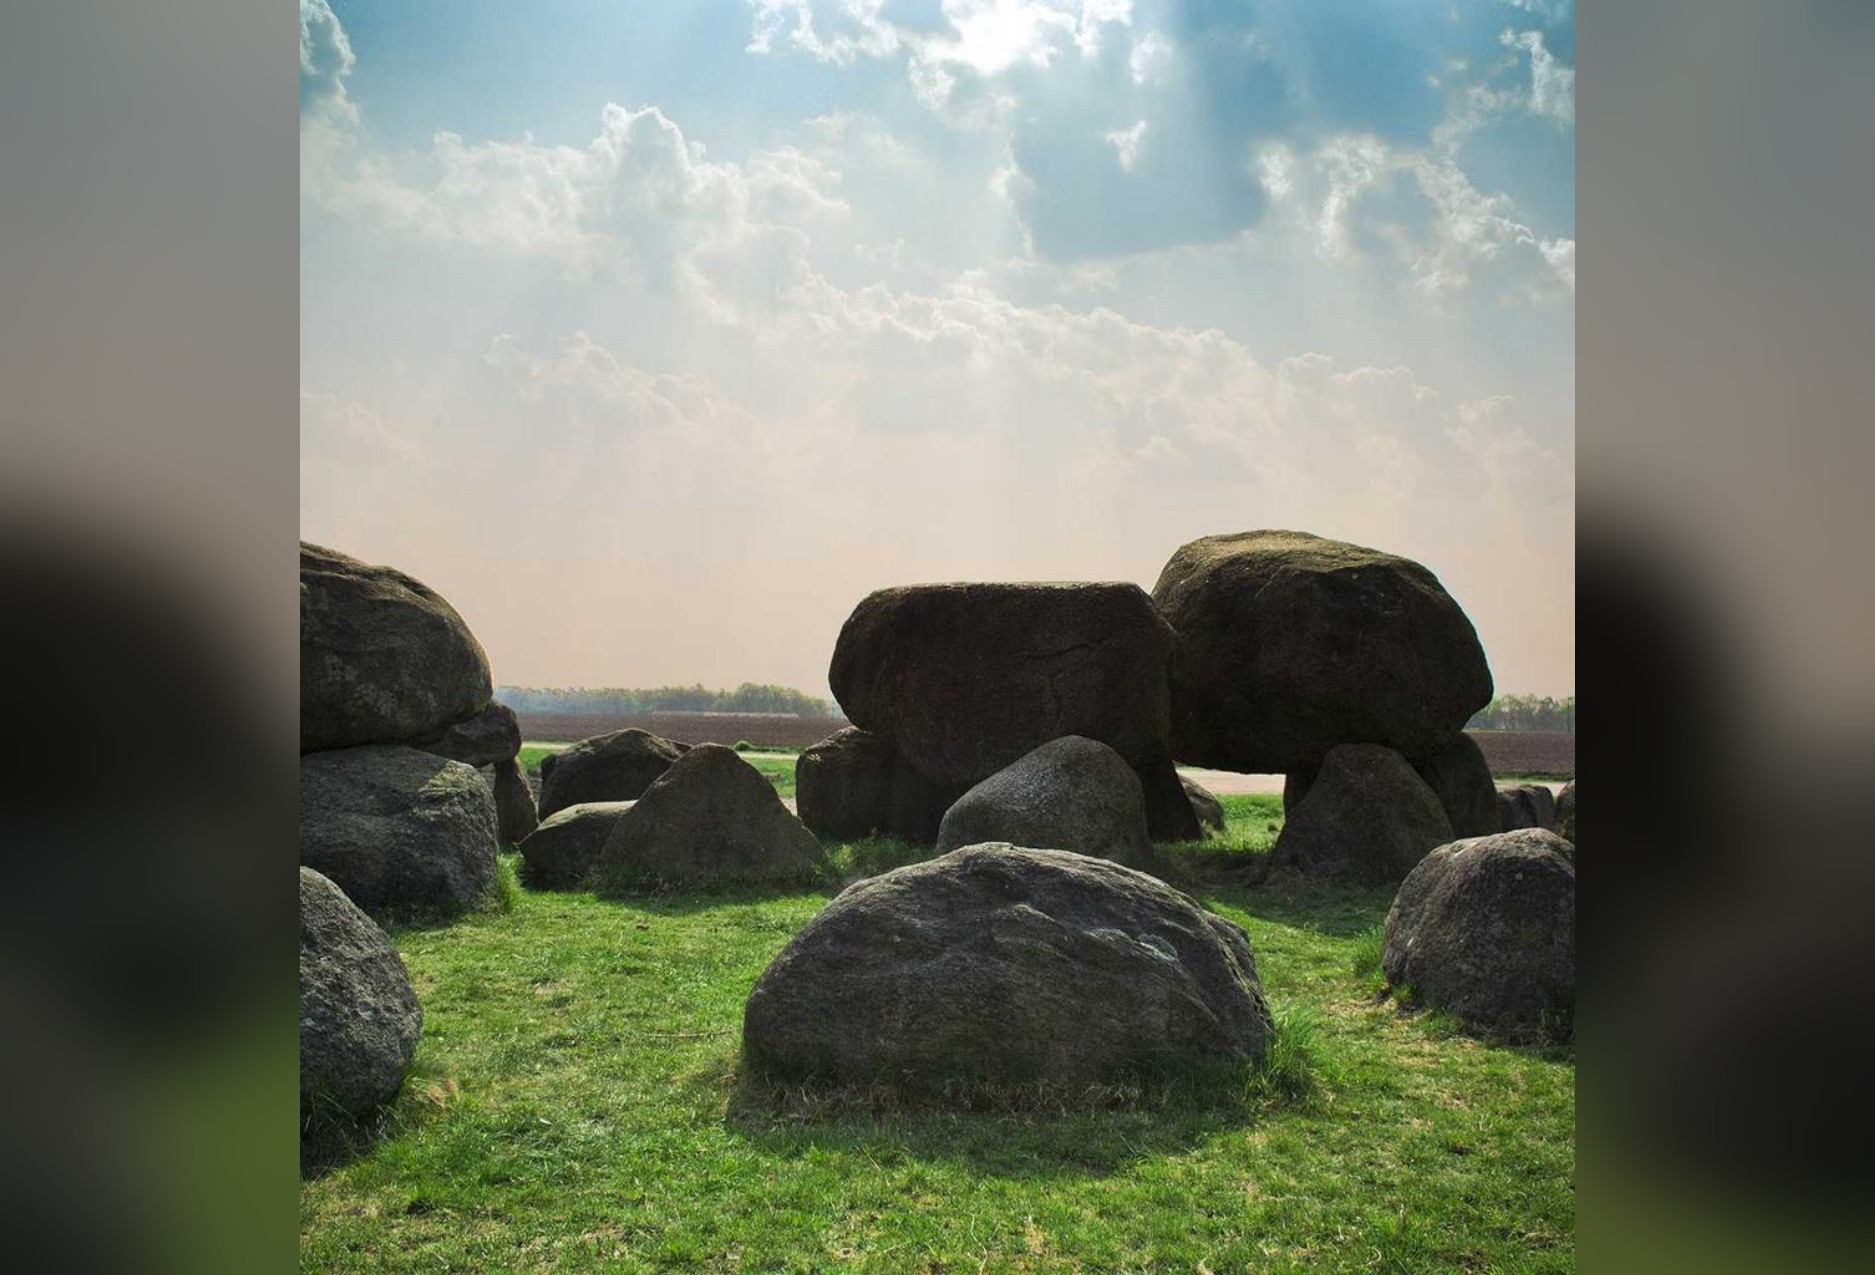
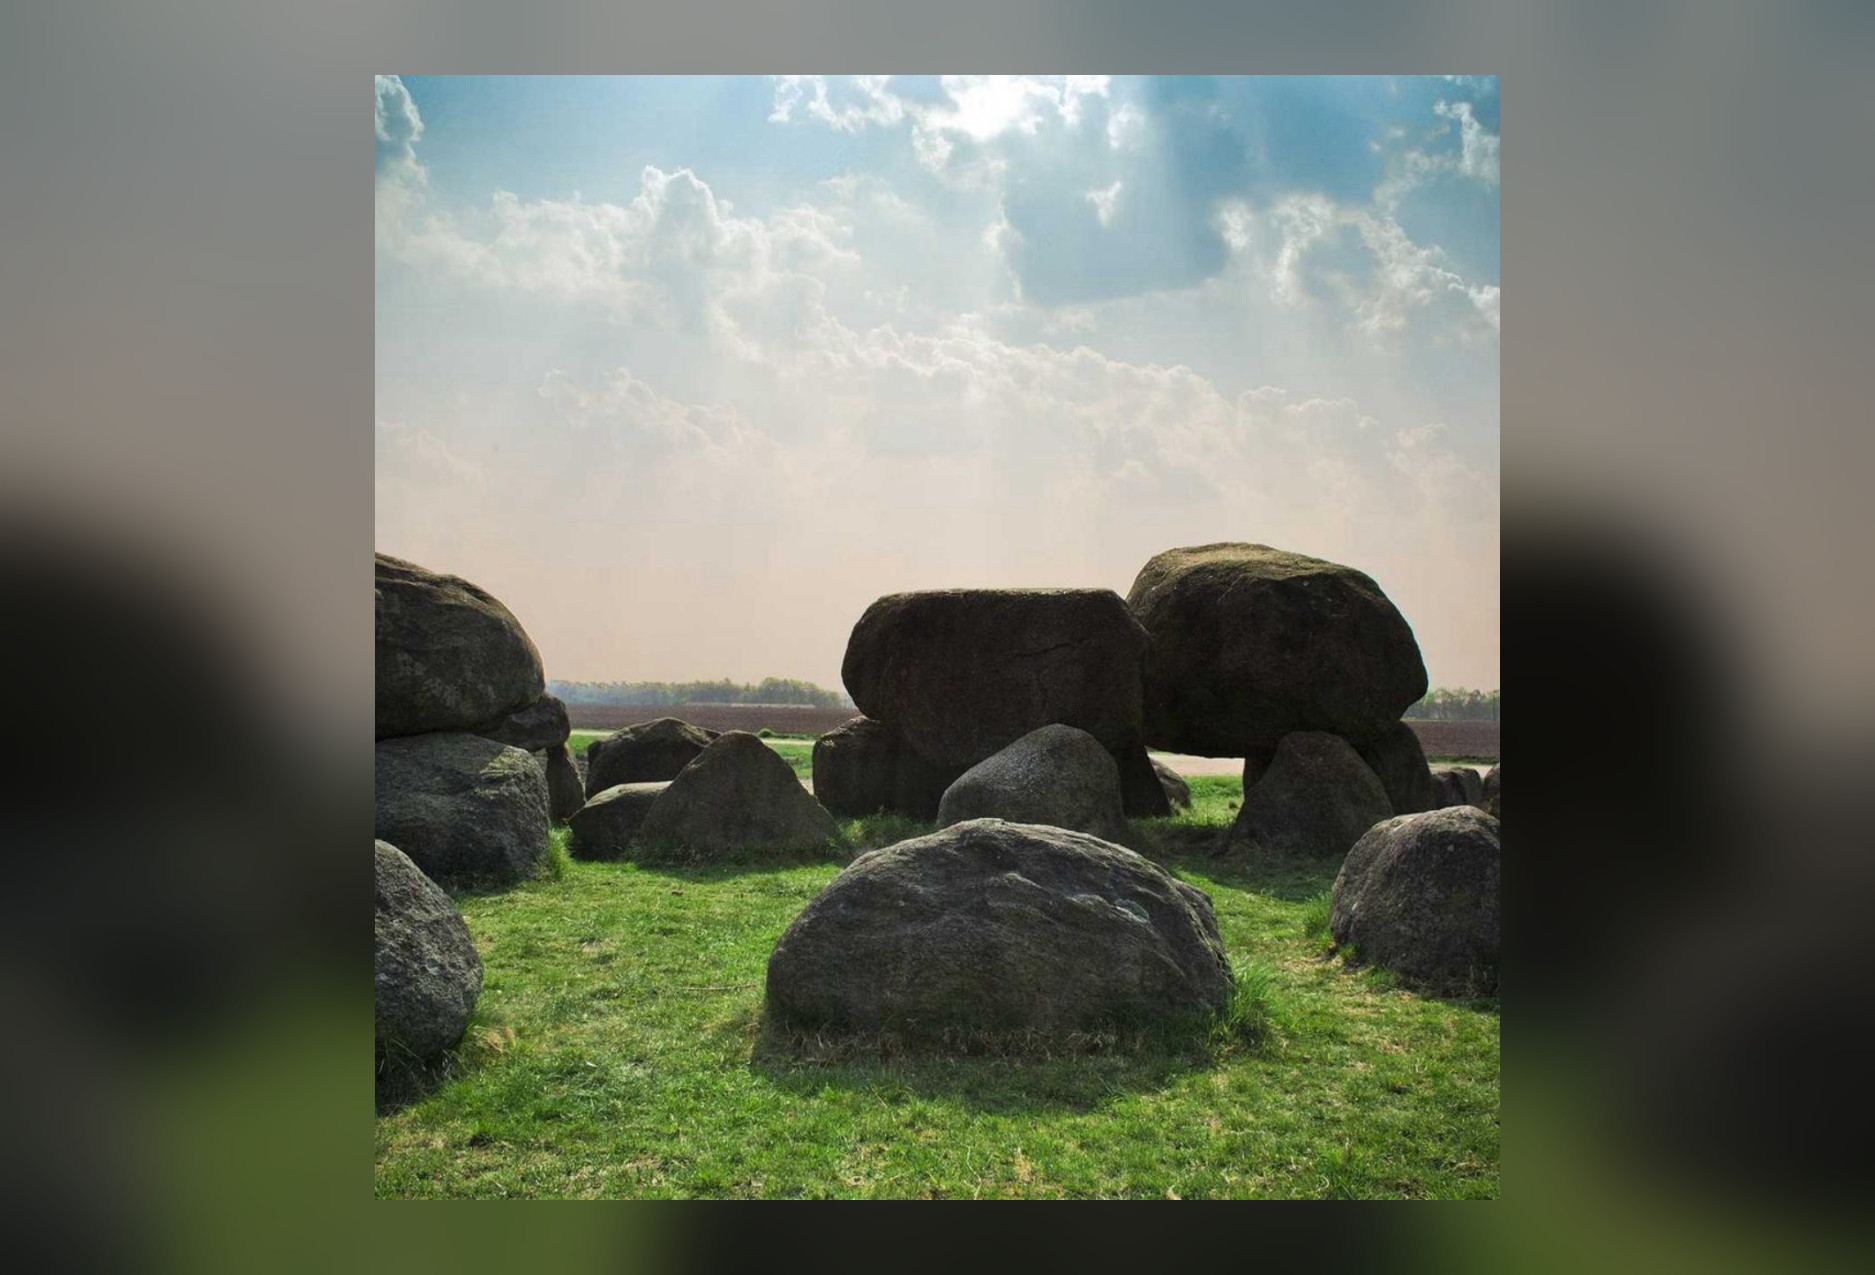
docs: portfolio pass — sync comments with verified reality, scrub fixtures
- mailstream/client, artworkStore, statusLines, render: comments claimed
  things disproven since (data-URI artwork, "still unverified" response
  shape, proof-approval gate, expiring bucket, unconfirmed bleed specs) —
  all now state what the live probes and the first print run verified.
- Test fixtures: anonymize captured Slack ids and workspace-specific quote
  text; neutral names only.
- README: CI badge; the card-grammar and hierarchy notes now describe the
  bold-echo convention (prompt on the card, speaker attribution).
- docs/cards/photo-front.jpg re-rendered through the trim-safe blur-fill so
  the showcase matches what ships.

Claude-Session: https://claude.ai/code/session_01CEdn7z3kDBqwiirugioocR

diff --git a/test/normalize.test.ts b/test/normalize.test.ts
@@ -16,7 +16,7 @@ const fakeClient = {
 const BOT_IMAGE_MESSAGE: SlackMessage = {
   ts: '1783992999.844899',
   text: '✨ Generated image for: "cat in space"',
-  bot_id: 'B0A69CHT46T',
+  bot_id: 'B0IMAGEBOT9',
   blocks: [
     {
       type: 'image',
@@ -28,7 +28,7 @@ const BOT_IMAGE_MESSAGE: SlackMessage = {
     },
     {
       type: 'context',
-      elements: [{ type: 'mrkdwn', text: '<@U151PTHK9> | *cat in space* | GPT-5 Image Mini' }],
+      elements: [{ type: 'mrkdwn', text: '<@U0REQUESTR> | *cat in space* | GPT-5 Image Mini' }],
     },
   ],
 };
@@ -72,7 +72,7 @@ describe('normalizeMessage with a bot image post', () => {
           BOT_IMAGE_MESSAGE.blocks![0],
           {
             type: 'context',
-            elements: [{ type: 'mrkdwn', text: '<@U151PTHK9> | GPT-5 Image Mini' }],
+            elements: [{ type: 'mrkdwn', text: '<@U0REQUESTR> | GPT-5 Image Mini' }],
           },
         ],
       },
@@ -92,7 +92,7 @@ describe('normalizeMessage with a bot image post', () => {
           BOT_IMAGE_MESSAGE.blocks![0],
           {
             type: 'context',
-            elements: [{ type: 'mrkdwn', text: '<@U151PTHK9> | GPT-5 Image Mini' }],
+            elements: [{ type: 'mrkdwn', text: '<@U0REQUESTR> | GPT-5 Image Mini' }],
           },
         ],
       },
@@ -106,7 +106,7 @@ describe('normalizeMessage with a bot image post', () => {
       channelId: 'C1',
       message: {
         ts: '1.3',
-        user: 'U151PTHK9',
+        user: 'U0REQUESTR',
         text: 'my own words',
         blocks: [
           {
@@ -159,7 +159,7 @@ describe('normalizeMessage with a bot image post', () => {
       channelId: 'C1',
       message: BOT_IMAGE_MESSAGE,
     });
-    expect(n.onBehalfOf?.id).toBe('U151PTHK9');
+    expect(n.onBehalfOf?.id).toBe('U0REQUESTR');
     expect(n.onBehalfOf?.name).toBe('mike');
   });
 
@@ -176,14 +176,14 @@ describe('normalizeMessage with a bot image post', () => {
             elements: [
               {
                 type: 'mrkdwn',
-                text: '<@U151PTHK9> | *draw <@U2> riding a dragon* | GPT-5 Image Mini',
+                text: '<@U0REQUESTR> | *draw <@U2> riding a dragon* | GPT-5 Image Mini',
               },
             ],
           },
         ],
       },
     });
-    expect(n.onBehalfOf?.id).toBe('U151PTHK9');
+    expect(n.onBehalfOf?.id).toBe('U0REQUESTR');
     // The mention inside the echo renders as a mention, not a raw id.
     expect(n.plainText).toBe('draw @mike riding a dragon');
   });
@@ -205,14 +205,14 @@ describe('normalizeMessage with a bot image post', () => {
             elements: [
               {
                 type: 'mrkdwn',
-                text: "🤖 <@USUMMONER> summoned Clank on <@UAUTHOR>'s message: *fuck this noise, you were banned from <#C06H16G7BA4|business>…* · <https://x.slack.com/p9|source> | GPT-5 Image Mini | 43s | ~$0.09",
+                text: "🤖 <@USUMMONER> summoned Clank on <@UAUTHOR>'s message: *this fort is load-bearing now, complaints go to <#C0GENERAL01|general>…* · <https://x.slack.com/p9|source> | GPT-5 Image Mini | 43s | ~$0.09",
               },
             ],
           },
         ],
       },
     });
-    expect(n.plainText).toBe('fuck this noise, you were banned from #business…');
+    expect(n.plainText).toBe('this fort is load-bearing now, complaints go to #general…');
     expect(n.plainText).not.toContain('source');
     expect(n.onBehalfOf?.id).toBe('UAUTHOR');
   });

diff --git a/src/mailstream/client.ts b/src/mailstream/client.ts
@@ -58,22 +58,22 @@ export class StubMailstreamClient implements MailstreamClient {
 }
 
 /**
- * VERIFIED CONTRACT (probed live 2026-07-13 against a real account):
+ * VERIFIED CONTRACT (probed live 2026-07-13; confirmed with a real
+ * production order 2026-07-16):
  *   - Base URL https://my.mailstream.app/api/v1, `Authorization: Bearer <jwt>`
  *   - POST /postcards body: name, size (4x6|6x9|6x11), mail_type (first_class),
  *     to_address{first_name,last_name,address_line1[,address_line2],address_city,
  *     address_state(2-letter),address_zip(5-10)}, front_artwork + back_artwork —
- *     both must be HTML ("Must be valid HTML"), so rendered images ship inside
- *     a full-bleed <img> wrapper with a data URI.
+ *     both must be HTML ("Must be valid HTML") capped at 100k chars, so
+ *     rendered images ship inside a full-bleed <img> wrapper pointing at a
+ *     hosted URL (data URIs would blow the cap).
  *   - Idempotency-Key header must be a UUID; same key + same payload replays the
  *     cached response (Idempotency-Status: Repeated), different payload → 422,
  *     concurrent → 409.
  *   - Return (from) address is account-level (/return-addresses, one default).
- *   - Printing is gated by print-points balance and proof approval (unless
- *     auto-approve is enabled on the account).
- *
- * Still unverified (needs the first real create): response field names —
- * mapping below is tolerant until then.
+ *   - Printing is gated by print-points balance (charged at creation; 402
+ *     with a balance breakdown when underfunded). API-created cards go
+ *     straight to Scheduled — there is no proof-approval gate.
  */
 export class HttpMailstreamClient implements MailstreamClient {
   constructor(

diff --git a/src/postcard/render.ts b/src/postcard/render.ts
@@ -8,9 +8,9 @@ import type { NormalizedMessage, Segment } from './normalize';
 
 /**
  * Print dimensions at 300 DPI including 0.125" bleed on each edge
- * (e.g. 4x6 → 6.25" x 4.25" artwork = 1875x1275).
- * TODO: confirm exact bleed + safe-zone specs against Mailstream's docs
- * once we have dashboard access — these follow common print-API conventions.
+ * (e.g. 4x6 → 6.25" x 4.25" artwork = 1875x1275). These follow common
+ * print-API conventions; the first physical print run trimmed exactly as
+ * this geometry predicts.
  */
 export const SIZE_SPECS: Record<PostcardSize, { width: number; height: number }> = {
   '4x6': { width: 1875, height: 1275 },
@@ -525,7 +525,8 @@ function sendersLine(senders: Sender[], authorName: string): string | undefined 
 
 /**
  * Back of the card. The right side stays clear for the address block +
- * postage (TODO: confirm Mailstream's exact clear-zone once docs are open).
+ * postage (Mailstream's template proof prints its return address from ~44%
+ * width — hence the 40% writable area).
  * When the front is a photo (full-bleed) the message text lives here; the
  * signature block (senders), card number, workspace name, and permalink QR
  * make the back the "who and where" side of the artifact.

diff --git a/test/fixtures.ts b/test/fixtures.ts
@@ -124,13 +124,13 @@ export const FIXTURES: Fixture[] = [
     message: msg({
       channelName: 'gen-art',
       author: { name: 'clank' },
-      onBehalfOf: { id: 'U9', name: 'samiswoi bart' },
+      onBehalfOf: { id: 'U9', name: 'maya chen' },
       // What the normalizer now yields for an AI image post: the human's
       // prompt mined from the chrome's bold run, wrapper and metadata gone.
       segments: text('suddenly i dancing severance style with the furry orcas'),
       plainText: 'suddenly i dancing severance style with the furry orcas',
     }),
-    back: { senders: [{ name: 'samiswoi bart' }] },
+    back: { senders: [{ name: 'maya chen' }] },
   },
   {
     name: 'single-sender-is-author',

diff --git a/src/core/artworkStore.ts b/src/core/artworkStore.ts
@@ -9,8 +9,8 @@ import { PutObjectCommand, S3Client } from '@aws-sdk/client-s3';
  * Keys are unguessable capability URLs, but DETERMINISTIC per message+side:
  * a retry re-uploads to the same key, keeping the Mailstream request payload
  * byte-identical so Idempotency-Key replay works instead of 422ing on
- * "reused with different payload". A lifecycle rule expires objects after
- * print history stops mattering.
+ * "reused with different payload". Objects never expire — Mailstream's proof
+ * links die in ~7 days, so this bucket is the cards' permanent archive.
  */
 
 let s3: S3Client | undefined;

diff --git a/src/postcard/statusLines.ts b/src/postcard/statusLines.ts
@@ -1,7 +1,7 @@
 /**
- * Thread messages for Mailstream postcard status values — shared by the
- * webhook handler and the polling tracker. Unknown statuses get a generic
- * line, so new upstream values degrade gracefully.
+ * Thread messages for Mailstream postcard status values, posted by the
+ * polling tracker. Unknown statuses get a generic line, so new upstream
+ * values degrade gracefully.
  */
 export const STATUS_LINES: Record<string, string> = {
   ready: ':frame_with_picture: The print proof is ready.',

diff --git a/README.md b/README.md
@@ -1,5 +1,7 @@
 # Postie 📮
 
+[![ci](https://github.com/MikeyDunn/postie/actions/workflows/ci.yml/badge.svg)](https://github.com/MikeyDunn/postie/actions/workflows/ci.yml)
+
 A Slack app that turns beloved messages into real, mailed postcards. React to a
 message with :postcard: — when it collects enough reactions (default 5), Postie
 renders it into a print-ready card, mails it via
@@ -47,8 +49,9 @@ flowchart LR
   number, and a QR code back to the Slack thread — with the right 60% left
   clear for the address, postage, and USPS barcode.
 - Mentions, links, bold/italic/code, code blocks, custom workspace emoji, and
-  unicode emoji (twemoji) all render. Bot posts are attributed to the human
-  they were posted for when the bot credits one in its context block.
+  unicode emoji (twemoji) all render. AI-bot posts print the human's own
+  prompt (mined from the bot's context line) and are attributed to the person
+  whose words they echo — "— sam · via artbot".
 
 ## Repo layout
 
@@ -153,10 +156,11 @@ every representative message shape (fronts + backs) to
   resvg-wasm, and jimp: Lambda bundles build identically from any host OS, no
   Docker required.
 - **Renders what Slack renders.** Message text follows Block Kit's own
-  editorial hierarchy (rich_text/section/header content over notification
-  fallbacks, context-block "chrome" demoted), and bot posts are attributed to
-  the human credited in their context block ("— sam · via bot") — no
-  per-bot special cases.
+  editorial hierarchy: rich_text/section/header content first, then the
+  human's words echoed in **bold** inside a bot's context-block "chrome"
+  (the AI-image-bot convention), then the bot's own summary line. The same
+  convention drives attribution — the mention just before the echo is whose
+  words the card quotes ("— sam · via bot") — with no per-bot special cases.
 - **Contract archaeology.** The mail vendor's API reference sits behind a
   login, so the client's field names, enums, and limits were recovered from
   live validation-error probing (guaranteed-422 payloads), then verified
